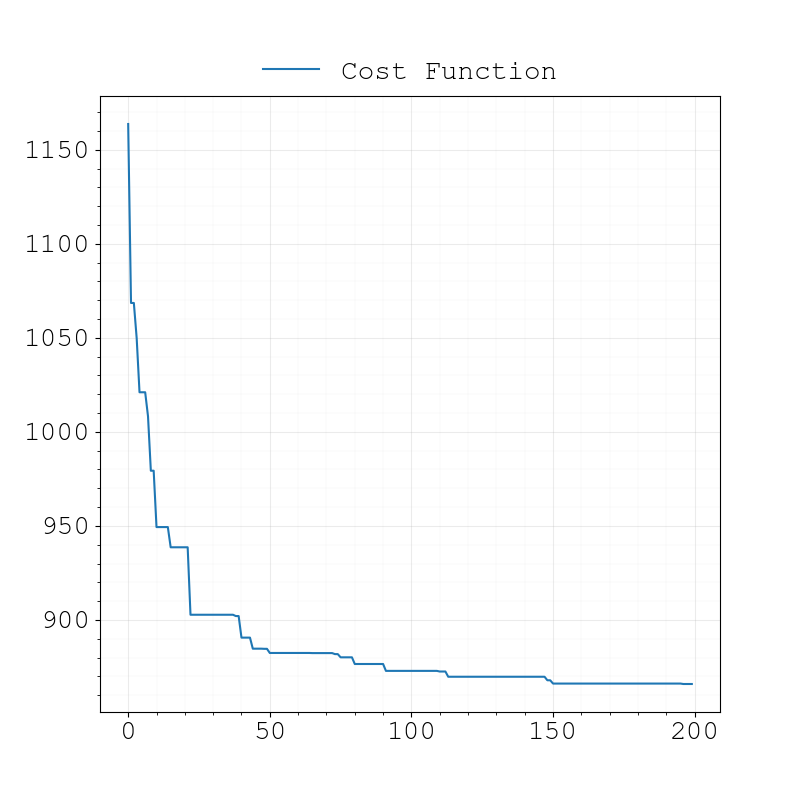
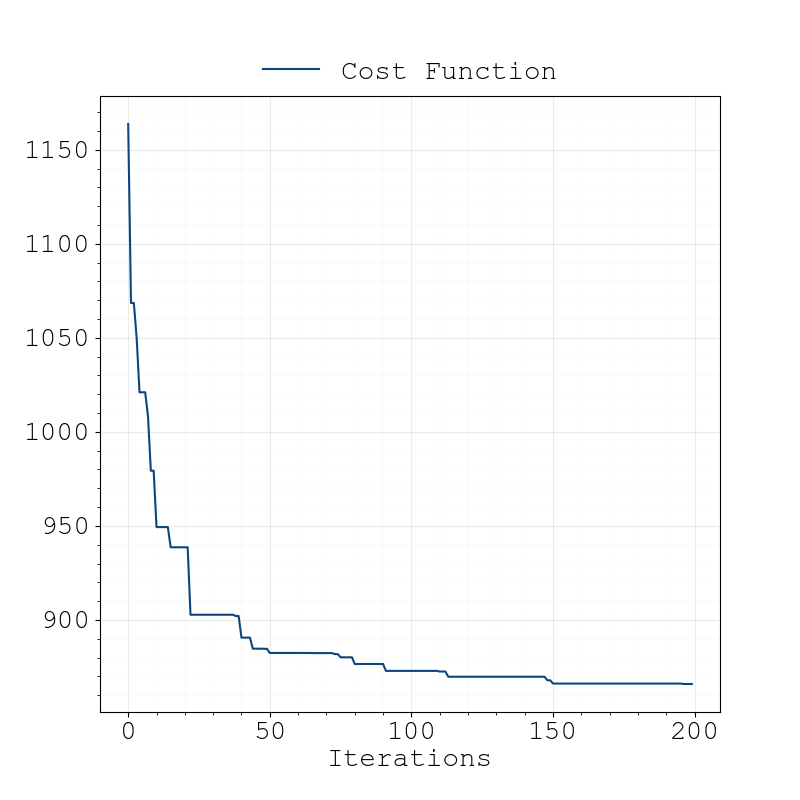
add color and xlabel to plot

diff --git a/cr_mech_coli/crm_fit/main.py b/cr_mech_coli/crm_fit/main.py
@@ -263,13 +263,19 @@ def crm_fit_main():
         fig, ax = plt.subplots(figsize=(8, 8))
         crm.plotting.configure_ax(ax)
         evals = np.sort(evals)[::-1]
-        ax.plot(np.arange(len(evals)), evals, label="Cost Function")
+        ax.plot(
+            np.arange(len(evals)),
+            evals,
+            label="Cost Function",
+            color=crm.plotting.COLOR3,
+        )
         ax.legend(
             loc="upper center",
             bbox_to_anchor=(0.5, 1.1),
             ncol=1,
             frameon=False,
         )
+        ax.set_xlabel("Iterations")
         fig.savefig(out / "optimization-progression.png")
         fig.savefig(out / "optimization-progression.pdf")
         plt.close(fig)
